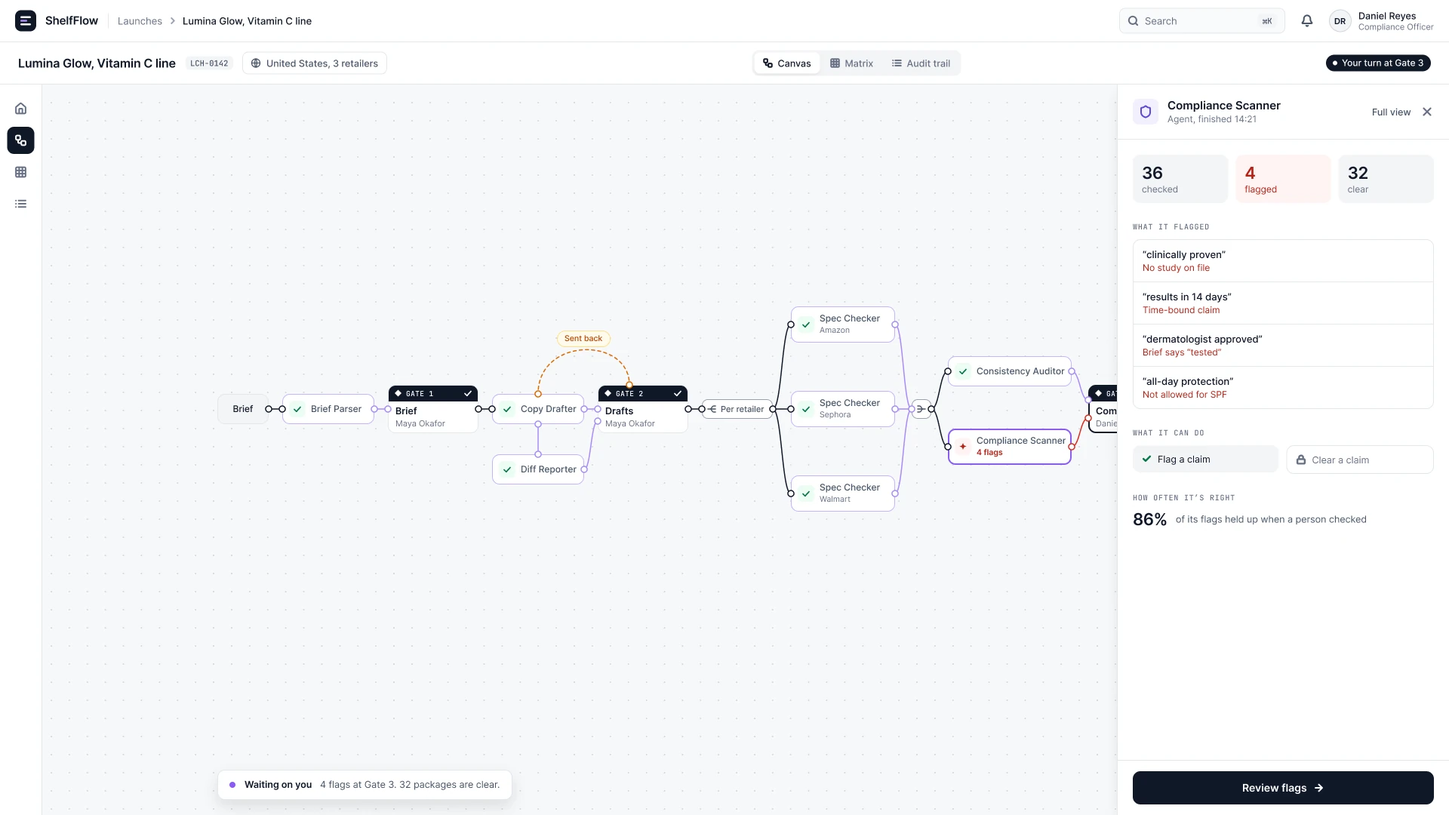
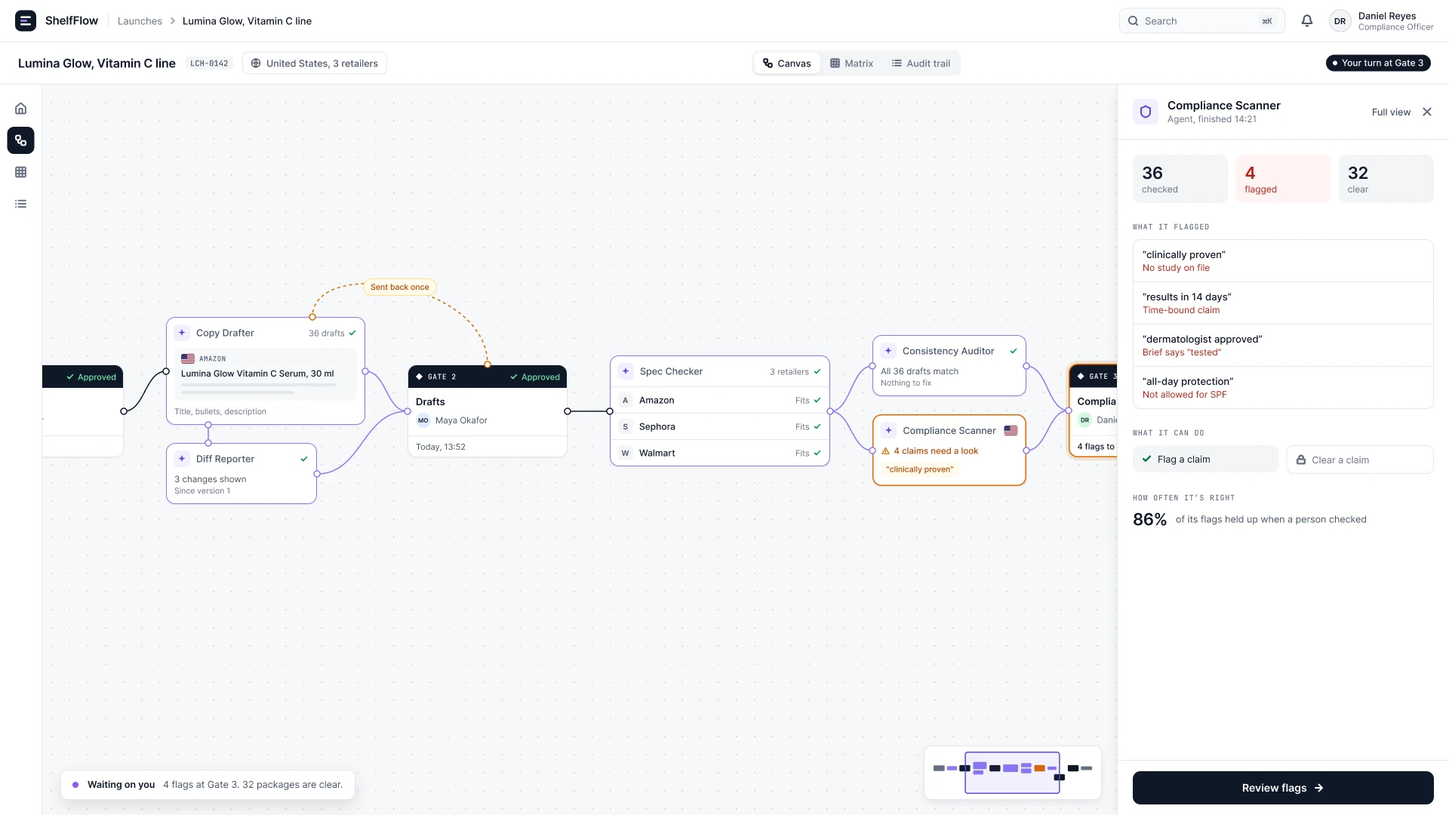
ShelfFlow: canvas screens in the new node language
Expanded nodes by type, one direction with a minimap, gate state in the
header, market flags, Image Generator thumbnails. Re-exported the canvas
screens and close-ups of the case, added a run view and the gate states,
reconciled the copy, and rebuilt the home card and share image.

Claude-Session: https://claude.ai/code/session_01HvDhLV3ZoERkt8nS9QeULq

diff --git a/work/shelfflow.html b/work/shelfflow.html
@@ -10,7 +10,7 @@
 <meta name="description" content="The supervision interface for an agentic content pipeline. Six AI agents, four human gates, 36 retailer-ready packages per brief. A case study by Inigo Angulo.">
 <meta property="og:title" content="ShelfFlow / Inigo Angulo">
 <meta property="og:description" content="The supervision interface for an agentic content pipeline. Six AI agents, four human gates, 36 retailer-ready packages per brief.">
-<meta property="og:image" content="https://inigoangulo.com/img/shelfflow/og.png?v=1123d">
+<meta property="og:image" content="https://inigoangulo.com/img/shelfflow/og.png?v=1125a">
 <meta property="og:image:width" content="1200">
 <meta property="og:image:height" content="630">
 <meta property="og:type" content="article">
@@ -18,7 +18,7 @@
 <meta name="twitter:card" content="summary_large_image">
 <meta name="twitter:title" content="ShelfFlow / Inigo Angulo">
 <meta name="twitter:description" content="The supervision interface for an agentic content pipeline. Six AI agents, four human gates, 36 retailer-ready packages per brief.">
-<meta name="twitter:image" content="https://inigoangulo.com/img/shelfflow/og.png?v=1123d">
+<meta name="twitter:image" content="https://inigoangulo.com/img/shelfflow/og.png?v=1125a">
 <link rel="preconnect" href="https://fonts.googleapis.com">
 <link rel="preconnect" href="https://fonts.gstatic.com" crossorigin>
 <link href="https://fonts.googleapis.com/css2?family=JetBrains+Mono:wght@300;400;500;600;700&family=IBM+Plex+Sans:wght@400;500;600;700&display=swap" rel="stylesheet">
@@ -89,7 +89,7 @@
   <p class="cs__sub" style="margin:-16px 0 32px;font-size:.78rem;color:var(--t3)">How to read the numbers: client figures are under NDA. "Weeks to days" is the target the product was designed for, not a published result. The numbers in the cards come from the demo launch shown in the screens: Lumina Glow, 6 SKUs, 3 retailers, 2 variants.</p>
 
   <!-- Hero visual -->
-  <div class="cs__img cs__img--wide" data-reveal><img src="../img/shelfflow/cover.png?v=1123d" alt="ShelfFlow canvas in Build mode: a library of agents and gates, and the pipeline as a graph with a split per retailer and a sent back loop"></div>
+  <div class="cs__img cs__img--wide" data-reveal><img src="../img/shelfflow/cover.png?v=1125a" alt="ShelfFlow canvas in Build mode: a library of agents and gates, and the start of the pipeline as a row of nodes with a sent back loop, above a minimap of the whole flow"></div>
   <p class="cs__img-cap">The canvas for one launch. Violet nodes are agents, black ones are gates with a person's name on them.</p>
 
 
@@ -350,39 +350,47 @@
     </div>
 
   <div class="cs__screens" data-reveal>
-    <div class="cs__screen"><img src="../img/shelfflow/v4/build-place.webp?v=1123d" alt="Dragging a condition from the library onto an edge of the pipeline" width="1920" height="1080" loading="lazy" decoding="async"><span class="cs__screen-label">Place a node / the edge shows where it fits</span></div>
-    <div class="cs__screen"><img src="../img/shelfflow/v4/build-connect.webp?v=1123d" alt="Pulling a connection from the condition to a new legal review gate" width="1920" height="1080" loading="lazy" decoding="async"><span class="cs__screen-label">Connect a node / the socket shows where it lands</span></div>
+    <div class="cs__screen"><img src="../img/shelfflow/v4/build-place.webp?v=1125a" alt="Dragging a condition from the library onto an edge of the pipeline" width="1920" height="1080" loading="lazy" decoding="async"><span class="cs__screen-label">Place a node / the edge shows where it fits</span></div>
+    <div class="cs__screen"><img src="../img/shelfflow/v4/build-connect.webp?v=1125a" alt="Pulling a connection from the condition to a new legal review gate" width="1920" height="1080" loading="lazy" decoding="async"><span class="cs__screen-label">Connect a node / the socket shows where it lands</span></div>
   </div>
   <p class="cs__img-cap">Adding a branch. A condition dropped between Gate 3 and Gate 4 sends regulated claims through a legal gate, and the launch cannot run until that gate has an owner.</p>
-  <div class="cs__img" data-reveal><img src="../img/shelfflow/v4/build-refuse.webp?v=1123d" alt="The canvas refusing a connection from an agent straight to Publish" width="1920" height="1080" loading="lazy" decoding="async"></div>
+  <div class="cs__img" data-reveal><img src="../img/shelfflow/v4/build-refuse.webp?v=1125a" alt="The canvas refusing a connection from an agent straight to Publish" width="1920" height="1080" loading="lazy" decoding="async"></div>
   <p class="cs__img-cap">A line from an agent to Publish. The canvas refuses it and says why.</p>
+    <div class="cs__section-text">
+      <p>A real launch does not fit on one screen, and the canvas does not pretend it does. The flow reads in one direction and the operator pans along it, the way they would in any design tool. A minimap keeps the whole pipeline in view and marks the gate that is waiting. Each kind of node shows what it carries: a brief shows the product and where it sells, an agent shows what it made, a gate shows who signs.</p>
+    </div>
+
+  <div class="cs__img" data-reveal><img src="../img/shelfflow/v6/run-live.webp?v=1125a" alt="The canvas in the middle of a run, panned to the checks: the Spec Checker is working through three retailers, later steps are joined by dotted lines, and a minimap in the corner shows the whole flow" width="1920" height="1080" loading="lazy" decoding="async"></div>
+  <p class="cs__img-cap">The same canvas halfway through a run, panned to the checks. Dotted lines have not run yet, and the minimap shows where this view sits in the whole flow.</p>
+  <div class="cs__img" data-reveal><img src="../img/shelfflow/v6/gate-states.webp?v=1125a" alt="Four states of a gate, shown in its dark header: Not started, Needs review, Approved and Blocked, each with a line below saying what happens next" width="1920" height="520" loading="lazy" decoding="async"></div>
+  <p class="cs__img-cap">A gate says where it stands in its header and what happens next in the line below. Every state has a label, so colour is never the only signal.</p>
     <div class="cs__section-text">
       <p>Before any of that, the operator says where the launch goes. Markets and retailers are chosen first, because everything downstream follows from them: how many packages there are, which claims rules apply and who has to sign. Retailers depend on the market, so the choice is a grid, and the package count moves as it changes.</p>
     </div>
 
   <div class="cs__screens" data-reveal>
-    <div class="cs__screen"><img src="../img/shelfflow/v5/scope-step.webp?v=1123d" alt="Setting the scope of a launch: markets on the left, a grid of retailers per market on the right, and the package count below" width="1920" height="1080" loading="lazy" decoding="async"><span class="cs__screen-label">Scope first / markets, retailers, package count</span></div>
-    <div class="cs__screen"><img src="../img/shelfflow/v5/scope-panel.webp?v=1123d" alt="The scope panel open on the canvas, previewing what adding the United Kingdom would change" width="1920" height="1080" loading="lazy" decoding="async"><span class="cs__screen-label">On the canvas / what a second market adds</span></div>
+    <div class="cs__screen"><img src="../img/shelfflow/v5/scope-step.webp?v=1125a" alt="Setting the scope of a launch: markets on the left, a grid of retailers per market on the right, and the package count below" width="1920" height="1080" loading="lazy" decoding="async"><span class="cs__screen-label">Scope first / markets, retailers, package count</span></div>
+    <div class="cs__screen"><img src="../img/shelfflow/v5/scope-panel.webp?v=1125a" alt="The scope panel open on the canvas, previewing what adding the United Kingdom would change" width="1920" height="1080" loading="lazy" decoding="async"><span class="cs__screen-label">On the canvas / what a second market adds</span></div>
   </div>
   <p class="cs__img-cap">Lumina Glow goes to one market and three retailers: 6 products, 3 retailers, 2 variants, 36 packages. Adding the United Kingdom would add 24.</p>
-  <div class="cs__img" data-reveal><img src="../img/shelfflow/v5/scope-markets.webp?v=1123d" alt="The canvas with two markets: after the retailer checks the flow forks per market, each lane with its own Compliance Scanner rules and its own Gate 3, and the UK gate has no owner yet" width="1920" height="1080" loading="lazy" decoding="async"></div>
+  <div class="cs__img" data-reveal><img src="../img/shelfflow/v5/scope-markets.webp?v=1125a" alt="The canvas with two markets: after the retailer checks the flow forks per market, each lane with its own Compliance Scanner rules and its own Gate 3, and the UK gate has no owner yet" width="1920" height="1080" loading="lazy" decoding="async"></div>
   <p class="cs__img-cap">A second market is more than extra packages. The canvas forks per market, each lane gets its own claims rules and its own Gate 3, and the launch cannot run until the new gate has an owner.</p>
     <div class="cs__section-text">
       <p>The drawing also changes with the brief. A copy refresh on two retailers needs four agents. A seasonal promo needs new visuals, so the operator brings in an optional Image Generator that runs beside the Copy Drafter and arrives at the same gate. A new product line needs every check. ShelfFlow reads the brief and suggests the closest shape.</p>
     </div>
 
   <div class="cs__screens" data-reveal>
-    <div class="cs__screen"><img src="../img/shelfflow/v4/brief-templates.webp?v=1123d" alt="Starting a launch: four pipeline templates, with Promo campaign suggested from the brief" width="1920" height="1080" loading="lazy" decoding="async"><span class="cs__screen-label">Start from the brief / a shape is suggested</span></div>
-    <div class="cs__screen"><img src="../img/shelfflow/v4/promo-canvas.webp?v=1123d" alt="The canvas for a promo campaign, with an optional Image Generator node beside the Copy Drafter" width="1920" height="1080" loading="lazy" decoding="async"><span class="cs__screen-label">Promo canvas / an optional agent joins</span></div>
+    <div class="cs__screen"><img src="../img/shelfflow/v4/brief-templates.webp?v=1125a" alt="Starting a launch: four pipeline templates, with Promo campaign suggested from the brief" width="1920" height="1080" loading="lazy" decoding="async"><span class="cs__screen-label">Start from the brief / a shape is suggested</span></div>
+    <div class="cs__screen"><img src="../img/shelfflow/v4/promo-canvas.webp?v=1125a" alt="The canvas for a promo campaign, with an optional Image Generator node beside the Copy Drafter" width="1920" height="1080" loading="lazy" decoding="async"><span class="cs__screen-label">Promo canvas / an optional agent joins</span></div>
   </div>
   <p class="cs__img-cap">Holiday Gift Sets needs new visuals and carries no regulated claims, so the promo shape is suggested.</p>
-  <div class="cs__img" data-reveal><img src="../img/shelfflow/v4/zoom-optional-node.webp?v=1123d" alt="Close view of the promo canvas: after Gate 1 the path forks to the Copy Drafter and to an Image Generator node tagged optional, and both meet at Gate 2" width="1600" height="680" loading="lazy" decoding="async"></div>
+  <div class="cs__img" data-reveal><img src="../img/shelfflow/v4/zoom-optional-node.webp?v=1125a" alt="Close view of the promo canvas: after Gate 1 the path forks to the Copy Drafter and to an Image Generator node tagged optional that shows its packshots, and both meet at Gate 2" width="1664" height="724" loading="lazy" decoding="async"></div>
   <p class="cs__img-cap">The optional node, up close. After Gate 1 the path forks: copy on one branch, visuals on the other, and both meet at Gate 2.</p>
-  <div class="cs__img" data-reveal><img src="../img/shelfflow/v4/image-node.webp?v=1123d" alt="The Image Generator node expanded: inputs, generated visuals per retailer format, boundaries and track record" width="1920" height="1080" loading="lazy" decoding="async"></div>
+  <div class="cs__img" data-reveal><img src="../img/shelfflow/v4/image-node.webp?v=1125a" alt="The Image Generator node expanded: inputs, generated visuals per retailer format, boundaries and track record" width="1920" height="1080" loading="lazy" decoding="async"></div>
   <p class="cs__img-cap">Open the node and it shows what every agent shows: what it used, what it made, and what it is not allowed to do. It composes from approved packshots, cannot add a claim or a price, and its output still waits for a person.</p>
-  <div class="cs__img" data-reveal><img src="../img/shelfflow/v4/zoom-image-node.webp?v=1123d" alt="Generated visuals for gift sets by retailer format: some ready, one redone, two still generating" width="1800" height="1194" loading="lazy" decoding="async"></div>
+  <div class="cs__img" data-reveal><img src="../img/shelfflow/v4/zoom-image-node.webp?v=1125a" alt="Generated visuals for gift sets by retailer format: some ready, one redone, two still generating" width="1800" height="1194" loading="lazy" decoding="async"></div>
   <p class="cs__img-cap">Its output: one visual per gift set and retailer format. One was redone for being off brand before anyone saw it. These images were generated for the demo.</p>
-  <div class="cs__img" data-reveal><img src="../img/shelfflow/v4/three-canvases.webp?v=1123d" alt="Three canvases compared: a copy refresh with four agents, a promo campaign with five, and a full launch with six and a legal branch" width="1920" height="1080" loading="lazy" decoding="async"></div>
+  <div class="cs__img" data-reveal><img src="../img/shelfflow/v4/three-canvases.webp?v=1125a" alt="Three canvases compared: a copy refresh with four agents, a promo campaign with five, and a full launch with six and a legal branch" width="1920" height="1080" loading="lazy" decoding="async"></div>
   <p class="cs__img-cap">Three briefs, three canvases: four, five and six agents. The gates do not move.</p>
     <div class="cs__section-text">
       <p>A shape that worked should not be rebuilt by hand. Once a launch is live, the operator can save it as a template, and Brief Parser does the sorting: it compares past launches and splits every setting into what stays fixed, what comes filled in, and what is asked each time. The next promo is four fields instead of a brief.</p>
@@ -390,15 +398,15 @@
     </div>
 
   <div class="cs__screens" data-reveal>
-    <div class="cs__screen"><img src="../img/shelfflow/v5/template-save.webp?v=1123d" alt="Save as template: the settings of a live launch sorted into three columns, Fixed, Default and Ask every time" width="1920" height="1080" loading="lazy" decoding="async"><span class="cs__screen-label">Save as template / the agent sorts the settings</span></div>
-    <div class="cs__screen"><img src="../img/shelfflow/v5/template-launch.webp?v=1123d" alt="A new launch started from a template: four fields to fill in, next to the list of what is already decided" width="1920" height="1080" loading="lazy" decoding="async"><span class="cs__screen-label">New launch / four fields, the rest is decided</span></div>
+    <div class="cs__screen"><img src="../img/shelfflow/v5/template-save.webp?v=1125a" alt="Save as template: the settings of a live launch sorted into three columns, Fixed, Default and Ask every time" width="1920" height="1080" loading="lazy" decoding="async"><span class="cs__screen-label">Save as template / the agent sorts the settings</span></div>
+    <div class="cs__screen"><img src="../img/shelfflow/v5/template-launch.webp?v=1125a" alt="A new launch started from a template: four fields to fill in, next to the list of what is already decided" width="1920" height="1080" loading="lazy" decoding="async"><span class="cs__screen-label">New launch / four fields, the rest is decided</span></div>
   </div>
   <p class="cs__img-cap">Alex saves Holiday Gift Sets as a template. The next gift set launch asks for products, dates, the offer claim and the packshots, and nothing else.</p>
-  <div class="cs__img" data-reveal><img src="../img/shelfflow/v5/template-update.webp?v=1123d" alt="A proposed template update from version 3 to version 4: two changes with their evidence, the affected node marked on the canvas, and approve or dismiss" width="1920" height="1080" loading="lazy" decoding="async"></div>
+  <div class="cs__img" data-reveal><img src="../img/shelfflow/v5/template-update.webp?v=1125a" alt="A proposed template update from version 3 to version 4: two changes with their evidence, the affected node marked on the canvas, and approve or dismiss" width="1920" height="1080" loading="lazy" decoding="async"></div>
   <p class="cs__img-cap">Keeping it current. Image Generator was added by hand in 4 of the last 5 launches, so Diff Reporter proposes turning it on by default. Maya can approve both changes, one, or none.</p>
-  <div class="cs__img" data-reveal><img src="../img/shelfflow/v5/template-library.webp?v=1123d" alt="The template library: three templates owned by the team with their state and usage, and the three shapes that ship with ShelfFlow, locked" width="1920" height="1080" loading="lazy" decoding="async"></div>
+  <div class="cs__img" data-reveal><img src="../img/shelfflow/v5/template-library.webp?v=1125a" alt="The template library: three templates owned by the team with their state and usage, and the three shapes that ship with ShelfFlow, locked" width="1920" height="1080" loading="lazy" decoding="async"></div>
   <p class="cs__img-cap">The library. The team's templates carry a state, a version and how long they take to reach Live. The three shapes that ship with ShelfFlow can be duplicated, not edited.</p>
-  <div class="cs__img" data-reveal><img src="../img/shelfflow/v5/chip-system.webp?v=1123d" alt="The chip system: five kinds of label, each answering one question, with the life cycle of a launch, a template and a gate" width="1920" height="1080" loading="lazy" decoding="async"></div>
+  <div class="cs__img" data-reveal><img src="../img/shelfflow/v5/chip-system.webp?v=1125a" alt="The chip system: five kinds of label, each answering one question, with the life cycle of a launch, a template and a gate" width="1920" height="1080" loading="lazy" decoding="async"></div>
   <p class="cs__img-cap">Templates added a second thing that could be a draft, so every label in the product was sorted again. A chip now answers one question: where it is, what the agent is doing, what rule applies, where it came from, or how many.</p>
   <a href="/lab/hold-the-gate/" data-reveal style="display:flex;align-items:center;gap:20px;flex-wrap:wrap;background:rgba(45,212,191,.04);border:1px solid rgba(45,212,191,.25);border-radius:12px;padding:22px 26px;margin:28px 0;text-decoration:none">
     <span style="flex:1;min-width:240px">
@@ -422,45 +430,45 @@
       <p>Maya runs sixteen launches at once, so her day starts on Home. Her queue comes first, then every launch by stage. A card shows what separates one launch from the next: days to launch, progress inside its stage and, when something is wrong, what.</p>
     </div>
 
-  <div class="cs__img" data-reveal><img src="../img/shelfflow/v4/home-dashboard.webp?v=1123d" alt="ShelfFlow home: the decision queue, launches by stage, packages live this week and agent quality, above a board of sixteen launches" width="1920" height="1080" loading="lazy" decoding="async"></div>
+  <div class="cs__img" data-reveal><img src="../img/shelfflow/v4/home-dashboard.webp?v=1125a" alt="ShelfFlow home: the decision queue, launches by stage, packages live this week and agent quality, above a board of sixteen launches" width="1920" height="1080" loading="lazy" decoding="async"></div>
   <p class="cs__img-cap">Home, from the Content Lead's seat. Black is waiting on her, grey on someone else, violet is an agent working, red is an error.</p>
-  <div class="cs__img" data-reveal><img src="../img/shelfflow/v4/zoom-home-cards.webp?v=1123d" alt="Close view of launch cards with days to launch, progress bars and error states" width="1800" height="681" loading="lazy" decoding="async"></div>
+  <div class="cs__img" data-reveal><img src="../img/shelfflow/v4/zoom-home-cards.webp?v=1125a" alt="Close view of launch cards with days to launch, progress bars and error states" width="1800" height="681" loading="lazy" decoding="async"></div>
   <p class="cs__img-cap">Three kinds of trouble on the board: a check blocked by a missing spec sheet, an agent that timed out and is retrying, and a launch two days late.</p>
-  <div class="cs__img" data-reveal><img src="../img/shelfflow/v4/home-filter.webp?v=1123d" alt="The board filtered to launches with an error: two cards remain, with the filter conditions open" width="1864" height="500" loading="lazy" decoding="async"></div>
+  <div class="cs__img" data-reveal><img src="../img/shelfflow/v4/home-filter.webp?v=1125a" alt="The board filtered to launches with an error: two cards remain, with the filter conditions open" width="1864" height="500" loading="lazy" decoding="async"></div>
   <p class="cs__img-cap">Finding one launch among sixteen: search by name, SKU or retailer, or filter by condition.</p>
     <p style="font-family:var(--m);font-size:.72rem;letter-spacing:.1em;text-transform:uppercase;color:var(--ac);margin:44px 0 10px">13:02 to 13:14 / Gate 1, the brief</p>
     <div class="cs__section-text">
       <p>Alex submits the brief. The Brief Parser structures it into 6 SKUs and 36 packages, and stops on what it cannot settle: the brief names three markets, but every retailer and SKU is US only. Maya answers the question and locks the brief. From here it cannot change silently.</p>
     </div>
 
-  <div class="cs__img" data-reveal><img src="../img/shelfflow/v3/gate1.webp?v=1123d" alt="Gate 1: the submitted brief next to what the agent structured, field by field" width="1920" height="1080" loading="lazy" decoding="async"></div>
+  <div class="cs__img" data-reveal><img src="../img/shelfflow/v3/gate1.webp?v=1125a" alt="Gate 1: the submitted brief next to what the agent structured, field by field" width="1920" height="1080" loading="lazy" decoding="async"></div>
   <p class="cs__img-cap">Gate 1. On the left, what Alex wrote. On the right, what the agent read, with every difference marked.</p>
     <p style="font-family:var(--m);font-size:.72rem;letter-spacing:.1em;text-transform:uppercase;color:var(--ac);margin:44px 0 10px">13:17 to 13:52 / Gate 2, drafts and a loop</p>
     <div class="cs__section-text">
       <p>The Copy Drafter writes two versions of all 36 packages. Maya sends three back as too long for Sephora. She says what is wrong in one sentence, the work returns to the agent, and she is free until it comes back. Minutes later the rewrites return with the changes marked, and she approves all 36.</p>
     </div>
 
-  <div class="cs__img" data-reveal><img src="../img/shelfflow/v4/zoom-loop.webp?v=1123d" alt="Close view of the sent back loop between Gate 2 and the Copy Drafter" width="1360" height="680" loading="lazy" decoding="async"></div>
+  <div class="cs__img" data-reveal><img src="../img/shelfflow/v4/zoom-loop.webp?v=1125a" alt="Close view of the sent back loop between Gate 2 and the Copy Drafter" width="1360" height="680" loading="lazy" decoding="async"></div>
   <p class="cs__img-cap">A rejection is a loop, not a dead end. Three drafts are back with the Copy Drafter and everything downstream waits.</p>
     <p style="font-family:var(--m);font-size:.72rem;letter-spacing:.1em;text-transform:uppercase;color:var(--ac);margin:44px 0 10px">14:10 to 14:21 / The checks</p>
     <div class="cs__section-text">
-      <p>Past Gate 2 the work splits by retailer. Three Spec Checkers run in parallel against each retailer's limits, and the merge waits for all of them. Then the Compliance Scanner reads every claim. Agents stay quiet on the canvas: a small node, a name and one fact. The detail is one click away.</p>
+      <p>Past Gate 2 the Spec Checker takes each retailer against its own limits, one row per retailer, and nothing moves on until all three fit. Then the Compliance Scanner reads every claim. On the canvas an agent says what it did in one line: drafts written, retailers that fit, claims that need a look. The detail is one click away.</p>
     </div>
 
-  <div class="cs__img" data-reveal><img src="../img/shelfflow/v4/zoom-split.webp?v=1123d" alt="Close view of the split per retailer: three parallel Spec Checker nodes and a merge" width="1520" height="800" loading="lazy" decoding="async"></div>
-  <p class="cs__img-cap">The split while it runs. Amazon is done, Sephora and Walmart are still being checked.</p>
-  <div class="cs__img" data-reveal><img src="../img/shelfflow/v4/run-agent.webp?v=1123d" alt="Clicking the Compliance Scanner opens its essentials in a side panel" width="1920" height="1080" loading="lazy" decoding="async"></div>
+  <div class="cs__img" data-reveal><img src="../img/shelfflow/v4/zoom-split.webp?v=1125a" alt="Close view of the Spec Checker while it runs: one row per retailer, Amazon fits, Sephora and Walmart are being checked" width="1520" height="800" loading="lazy" decoding="async"></div>
+  <p class="cs__img-cap">The Spec Checker while it runs. Amazon fits, Sephora and Walmart are still being checked.</p>
+  <div class="cs__img" data-reveal><img src="../img/shelfflow/v4/run-agent.webp?v=1125a" alt="Clicking the Compliance Scanner opens its essentials in a side panel" width="1920" height="1080" loading="lazy" decoding="async"></div>
   <p class="cs__img-cap">Clicking the scanner: what it flagged, what it may and may not do, and how often its flags hold up once a person checks them.</p>
     <p style="font-family:var(--m);font-size:.72rem;letter-spacing:.1em;text-transform:uppercase;color:var(--ac);margin:44px 0 10px">14:21 to 14:52 / Gate 3, compliance</p>
     <div class="cs__section-text">
       <p>The scanner raises four flags: "clinically proven", "results in 14 days", "dermatologist approved" and "all-day protection". The other 32 packages are clear. The flags are what the agent caught, not what shipped. Daniel takes them one at a time.</p>
     </div>
 
-  <div class="cs__img" data-reveal><img src="../img/shelfflow/v4/zoom-gate3.webp?v=1123d" alt="Close view of Gate 3: the scanner node shows 4 flags, a red line carries them to the gate, and the gate lists the four flagged phrases" width="1500" height="1080" loading="lazy" decoding="async"></div>
+  <div class="cs__img" data-reveal><img src="../img/shelfflow/v4/zoom-gate3.webp?v=1125a" alt="Close view of Gate 3: the scanner node says 4 claims need a look, the gate header says Your turn, and the gate lists the four flagged phrases" width="1500" height="1080" loading="lazy" decoding="async"></div>
   <p class="cs__img-cap">Gate 3 opens where it sits on the graph and says whose turn it is.</p>
-  <div class="cs__img" data-reveal><img src="../img/shelfflow/v4/gate3-review.webp?v=1123d" alt="Gate 3 opened over the canvas, showing one flagged sentence" width="1920" height="1080" loading="lazy" decoding="async"></div>
+  <div class="cs__img" data-reveal><img src="../img/shelfflow/v4/gate3-review.webp?v=1125a" alt="Gate 3 opened over the canvas, showing one flagged sentence" width="1920" height="1080" loading="lazy" decoding="async"></div>
   <p class="cs__img-cap">One flag: the sentence, the reason, a note for the agent, and a keyboard shortcut per answer. This decision also covers the same claim in two other packages.</p>
-  <div class="cs__img" data-reveal><img src="../img/shelfflow/v3/gate3-evidence.webp?v=1123d" alt="The full evidence view for one flag, with the decision panel" width="1920" height="1080" loading="lazy" decoding="async"></div>
+  <div class="cs__img" data-reveal><img src="../img/shelfflow/v3/gate3-evidence.webp?v=1125a" alt="The full evidence view for one flag, with the decision panel" width="1920" height="1080" loading="lazy" decoding="async"></div>
   <p class="cs__img-cap">The evidence behind it: the rule, the source sentence in the brief, and a suggested rewrite that is never applied on its own.</p>
     <p style="font-family:var(--m);font-size:.72rem;letter-spacing:.1em;text-transform:uppercase;color:var(--ac);margin:44px 0 10px">14:52 to 15:24 / Gate 4, the launch</p>
     <div class="cs__section-text">
@@ -468,8 +476,8 @@
     </div>
 
   <div class="cs__screens" data-reveal>
-    <div class="cs__screen"><img src="../img/shelfflow/v4/gate4-choose.webp?v=1123d" alt="Gate 4: choosing between version A and B for one product and retailer" width="1920" height="1080" loading="lazy" decoding="async"><span class="cs__screen-label">Gate 4 / one choice</span></div>
-    <div class="cs__screen"><img src="../img/shelfflow/v4/gate4-batch.webp?v=1123d" alt="Gate 4: the batch shortcut stays locked until every choice has been opened" width="1920" height="1080" loading="lazy" decoding="async"><span class="cs__screen-label">Gate 4 / the shortcut, still locked</span></div>
+    <div class="cs__screen"><img src="../img/shelfflow/v4/gate4-choose.webp?v=1125a" alt="Gate 4: choosing between version A and B for one product and retailer" width="1920" height="1080" loading="lazy" decoding="async"><span class="cs__screen-label">Gate 4 / one choice</span></div>
+    <div class="cs__screen"><img src="../img/shelfflow/v4/gate4-batch.webp?v=1125a" alt="Gate 4: the batch shortcut stays locked until every choice has been opened" width="1920" height="1080" loading="lazy" decoding="async"><span class="cs__screen-label">Gate 4 / the shortcut, still locked</span></div>
   </div>
   <p class="cs__img-cap">Two versions side by side with their character counts. On the right, the shortcut waits for six choices she has not opened yet.</p>
     <p style="font-family:var(--m);font-size:.72rem;letter-spacing:.1em;text-transform:uppercase;color:var(--ac);margin:44px 0 10px">15:24 / Live</p>
@@ -477,9 +485,9 @@
       <p>Sofia approves. One variant of each product goes live on each retailer: 18 packages, 2 hours and 22 minutes after the brief arrived.</p>
     </div>
 
-  <div class="cs__img" data-reveal><img src="../img/shelfflow/v4/run-done.webp?v=1123d" alt="The canvas after launch: every gate signed, 18 packages live" width="1920" height="1080" loading="lazy" decoding="async"></div>
+  <div class="cs__img" data-reveal><img src="../img/shelfflow/v4/run-done.webp?v=1125a" alt="The canvas after launch: every gate signed, 18 packages live" width="1920" height="1080" loading="lazy" decoding="async"></div>
   <p class="cs__img-cap">The same drawing Alex built, with every node done.</p>
-  <div class="cs__img" data-reveal><img src="../img/shelfflow/v3/audit.webp?v=1123d" alt="Audit trail view: every step in order, people in bold" width="1920" height="1080" loading="lazy" decoding="async"></div>
+  <div class="cs__img" data-reveal><img src="../img/shelfflow/v3/audit.webp?v=1125a" alt="Audit trail view: every step in order, people in bold" width="1920" height="1080" loading="lazy" decoding="async"></div>
   <p class="cs__img-cap">The audit trail for this launch. People are in bold and each gate decision is tagged, so "who approved this claim?" is one row with a name and a time.</p>
   </div>
 

diff --git a/index.html b/index.html
@@ -936,7 +936,7 @@ window.addEventListener('DOMContentLoaded',function(){
 
 <div class="layer layer--raised"><div class="mx"><div class="sh"><span>// work</span></div>
 <div class="cards">
-<a href="work/shelfflow.html" class="cd cd--f cd--5"><div class="cd__img"><img src="img/shelfflow/flagship-card.webp?v=1118c" width="2374" height="1118" decoding="async" alt="ShelfFlow: six agents do the work, four people decide what ships" style="width:100%;height:100%;object-fit:cover;object-position:center;position:absolute;inset:0"></div><div class="cd__body"><div class="cd__type"><span class="cd__tag cd__tag--who">Enterprise CPG / NDA</span><span class="cd__tag cd__tag--what">Agentic Pipeline</span><span class="cd__tag cd__tag--result">1 Brief &#8594; 36 Packages</span><span class="cd__tag cd__tag--live">Interactive Demo</span></div><h3 class="cd__name">ShelfFlow</h3><p class="cd__desc">The supervision interface for an agentic content pipeline: six AI agents generate and adapt, four human gates decide what ships across retailers.</p><div class="cd__foot"><span class="cd__yr">View case study</span><span class="cd__go">&#8594;</span></div></div></a>
+<a href="work/shelfflow.html" class="cd cd--f cd--5"><div class="cd__img"><img src="img/shelfflow/flagship-card.webp?v=1125a" width="2374" height="1118" decoding="async" alt="ShelfFlow: six agents do the work, four people decide what ships" style="width:100%;height:100%;object-fit:cover;object-position:center;position:absolute;inset:0"></div><div class="cd__body"><div class="cd__type"><span class="cd__tag cd__tag--who">Enterprise CPG / NDA</span><span class="cd__tag cd__tag--what">Agentic Pipeline</span><span class="cd__tag cd__tag--result">1 Brief &#8594; 36 Packages</span><span class="cd__tag cd__tag--live">Interactive Demo</span></div><h3 class="cd__name">ShelfFlow</h3><p class="cd__desc">The supervision interface for an agentic content pipeline: six AI agents generate and adapt, four human gates decide what ships across retailers.</p><div class="cd__foot"><span class="cd__yr">View case study</span><span class="cd__go">&#8594;</span></div></div></a>
 <a href="work/acervo.html" class="cd cd--f cd--1"><div class="cd__img"><img src="img/acervo-card.webp" width="2374" height="1118" decoding="async" alt="Acervo private automotive collections" style="width:100%;height:100%;object-fit:cover;object-position:center;position:absolute;inset:0"></div><div class="cd__body"><div class="cd__type"><span class="cd__tag cd__tag--who">Acervo / Private client, Mexico</span><span class="cd__tag cd__tag--what">AI Build / Agent Team</span><span class="cd__tag cd__tag--result">17 Days to Production</span><span class="cd__tag cd__tag--live">Live at app.acervogroup.com</span></div><h3 class="cd__name">Acervo</h3><p class="cd__desc">A private platform for a serious car collection, built for a private collector in Mexico. Scoped, designed and shipped solo with eight AI agents under two human gates.</p><div class="cd__foot"><span class="cd__yr">View case study</span><span class="cd__go">&#8594;</span></div></div></a>
 <a href="work/checkout.html" class="cd cd--3"><div class="cd__img"><img src="img/gyg-card.webp?v=1118w" width="1920" height="1200" decoding="async" loading="lazy" alt="GetYourGuide checkout redesign: the funnel leaked between steps, +11% conversion" style="width:100%;height:100%;object-fit:cover;position:absolute;inset:0"></div><div class="cd__body"><div class="cd__type"><span class="cd__tag cd__tag--who">GetYourGuide</span><span class="cd__tag cd__tag--what">CRO / 10 A/B Tests</span><span class="cd__tag cd__tag--result">+11% Conversion</span><span class="cd__tag cd__tag--live">Live in Production</span></div><h3 class="cd__name">Checkout Funnel Redesign</h3><p class="cd__desc">The team was optimizing the wrong step. 38% of converters left checkout and came back to nothing. Ten experiments on the gap nobody measured.</p><div class="cd__foot"><span class="cd__yr">View case study</span><span class="cd__go">&#8594;</span></div></div></a>
 <div class="cards__side">
